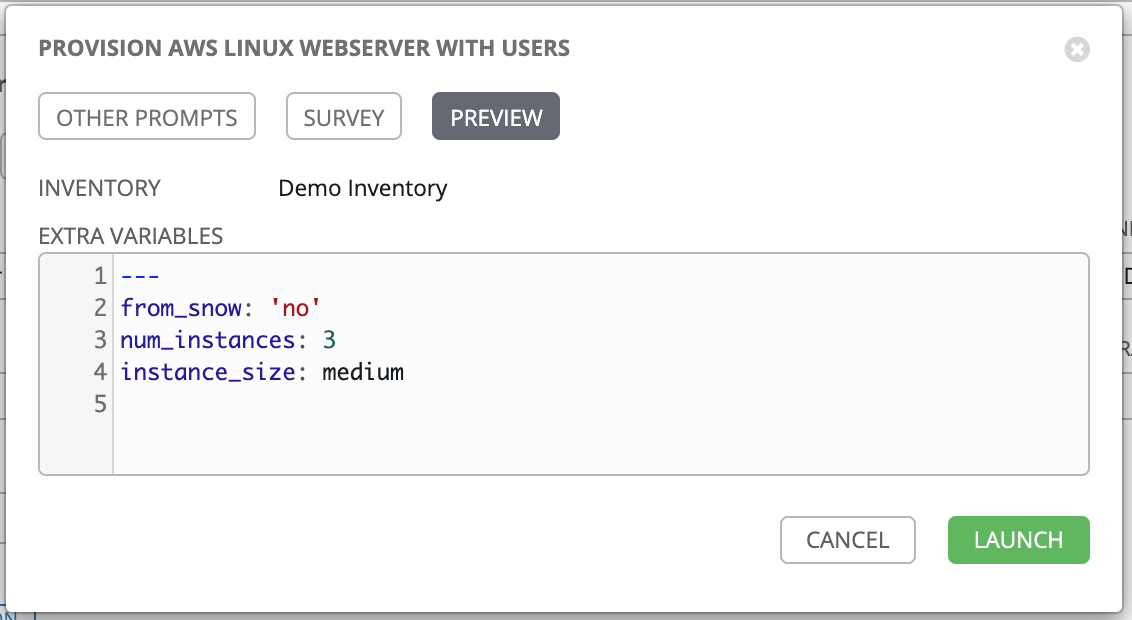
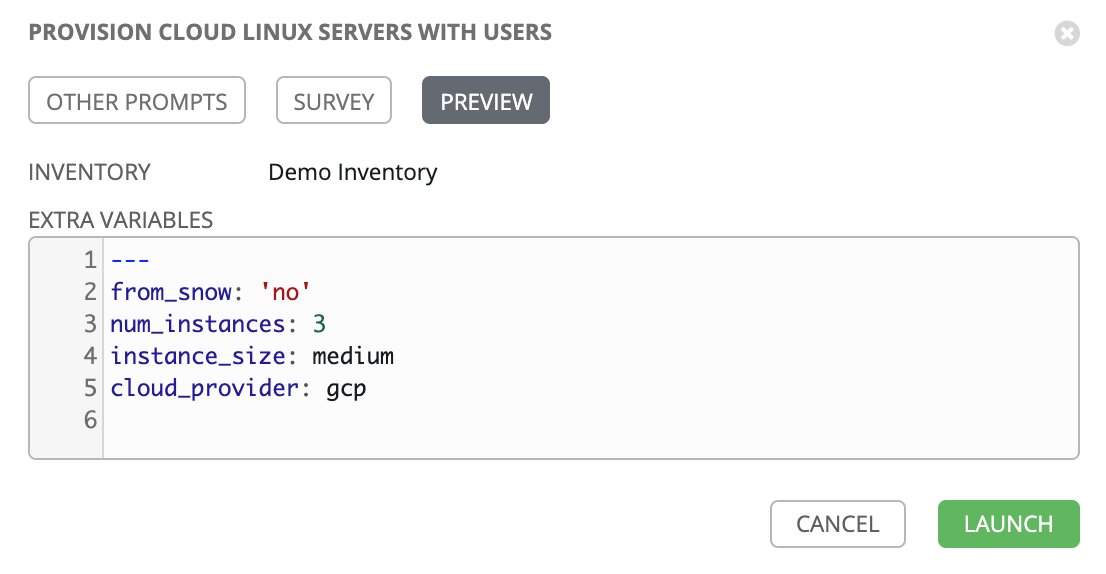
updates images

Changed region(s): [[0.0, 0.0, 1.0, 1.0], [0.2459, 0.2666, 0.3996, 0.3258]]

diff --git a/readme/workflow_kickoff.md b/readme/workflow_kickoff.md
@@ -4,14 +4,14 @@ Now that you have created your two Workflow Templates, you can use them to both 
 
 ## Running the Provisioner Template
 
-Under Resources --> Templates, click on the rocket ship button next to the Workflow Template, **Provision AWS Linux Webserver with Users**. You will be presented with two boxes for options. First, as the **Extra Variables** section has been set to `PROMPT ON LAUNCH`, you will be given the opportunity to change the `from_snow` variable to `yes` or `no`. Leave this value as `no`; this value should only be set to yes when the request for the WorkflowTemplate comes from ServiceNow (which will be covered in the next section):
+Under Resources --> Templates, click on the rocket ship button next to the Workflow Template, **Provision Cloud Linux Servers with Users**. You will be presented with two boxes for options. First, as the **Extra Variables** section has been set to `PROMPT ON LAUNCH`, you will be given the opportunity to change the `from_snow` variable to `yes` or `no`. Leave this value as `no`; this value should only be set to yes when the request for the Workflow Template comes from ServiceNow (which will be covered in the next section):
 
 <img src="images/provision_extra_vars.png" alt="Provisioner Extra Vars"
 	title="Provisioner Extra Vars" width="800" />
 
 Click **Next**.
 
-Second, you will be presented with a survey, asking how many instances you would like to spin up (this must be between 1 and 10), and how large you would like them to be:
+Second, you will be presented with a survey, asking how many instances you would like to spin up (this must be between 1 and 10), how large you would like them to be, and which public cloud to provision into:
 
 <img src="images/provision_survey.png" alt="Provisioner Survey"
 	title="Provisioner Survey" width="800" />
@@ -34,16 +34,16 @@ The playbooks have been architected in such a way that any function of ServiceNo
 
 ### Results of the Provisioner Template
 
-RHEL 8 instances of the size and number specified in the Workflow Template are created. An additional instance that hosts the secrets engine is also created. If you look at the results of the **Add RHEL8 users** Job Template, you can see all these instances:
+RHEL8 instances of the size and number specified in the Workflow Template are created. An additional instance that hosts the secrets engine is also created. If you look at the results of the **Add RHEL8 users** Job Template, you can see all these instances:
 
 <img src="images/all_instances.png" alt="All Instances"
 	title="All Instances" width="800" />
 
-The instances have metadata applied that ensures that the vault instance is untouched when running a Job Template only intended to run against the requested RHEL 8 instances.
+The instances have metadata applied that ensures that the vault instance is untouched when running a Job Template only intended to run against the requested RHEL8 instances.
 
-### RHEL 8 Instances
+### RHEL8 Instances
 
-RHEL 8 instances of the size and number specified in the Workflow Template are created, each with Apache installed, and a dynamically generated web page inserted. You can plug the IP address of any of these instances into your browser and see the following:
+RHEL8 instances of the size and number specified in the Workflow Template are created, each with Apache installed, and a dynamically generated web page inserted. You can plug the IP address of any of these instances into your browser and see the following:
 
 <img src="images/apache_index.png" alt="Apache Index"
 	title="Apache Index" width="800" />
@@ -85,7 +85,7 @@ Of course, these compute resources do not exist in a vaccuum; the underlying vir
 
 ## Running the Teardown Template
 
-The Teardown Template is less involved to run. Simply click on the rocketship button next to the Workflow Template **Teardown AWS Linux Application, Instances and Resources**. The Workflow Template searches for the cloud resources based on metadata defined in the [default-vars.yml](../vars/default-vars.yml) file, and will tear down all instances and resources without any further user input.
+The Teardown Template is less involved to run. Simply click on the rocketship button next to the Workflow Template **Teardown Cloud Linux Application, Instances and Resources**. The Workflow Template searches for the cloud resources based on metadata defined in the [default-vars.yml](../vars/default-vars.yml) file, and will tear down all instances and resources without any further user input.
 
 ## Next Steps
 
